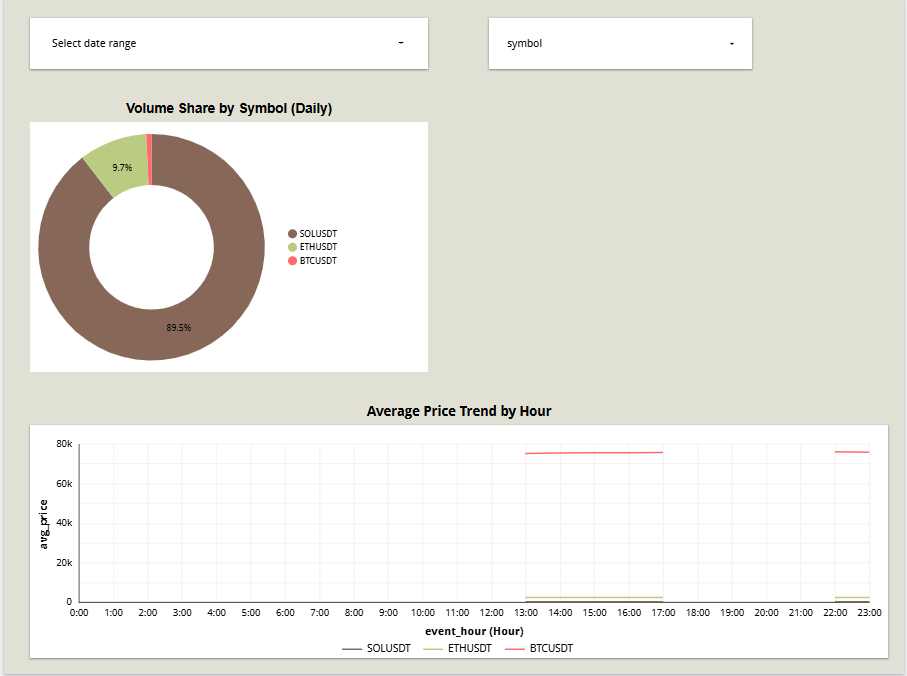
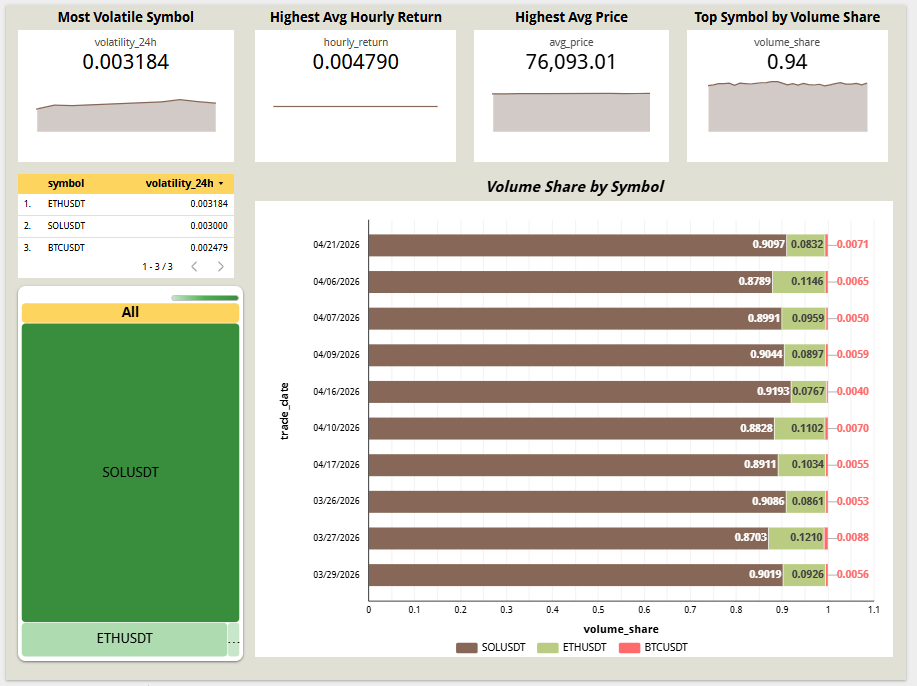
feat: add 30-day kline backfill and refresh dashboard evidence
Enable paginated Binance kline backfills with configurable lookback windows, then align README/dashboard docs and screenshots so reviewers can quickly validate architecture and market insights.

Made-with: Cursor

diff --git a/ingestion/batch/binance_batch_ingest.py b/ingestion/batch/binance_batch_ingest.py
@@ -16,6 +16,22 @@ from ingestion.gcp_credentials import ensure_service_account_file_exists_if_conf
 
 LOGGER = logging.getLogger(__name__)
 BINANCE_KLINES_ENDPOINT = "https://api.binance.com/api/v3/klines"
+KLINE_API_MAX_LIMIT = 1000
+MINUTE_MS = 60 * 1000
+SUPPORTED_INTERVAL_MS = {
+    "1m": 1 * MINUTE_MS,
+    "3m": 3 * MINUTE_MS,
+    "5m": 5 * MINUTE_MS,
+    "15m": 15 * MINUTE_MS,
+    "30m": 30 * MINUTE_MS,
+    "1h": 60 * MINUTE_MS,
+    "2h": 2 * 60 * MINUTE_MS,
+    "4h": 4 * 60 * MINUTE_MS,
+    "6h": 6 * 60 * MINUTE_MS,
+    "8h": 8 * 60 * MINUTE_MS,
+    "12h": 12 * 60 * MINUTE_MS,
+    "1d": 24 * 60 * MINUTE_MS,
+}
 
 
 def normalize_kline(
@@ -50,7 +66,7 @@ def build_kline_params(
     interval: str,
     start_time_ms: int,
     end_time_ms: int,
-    limit: int = 1000,
+    limit: int = KLINE_API_MAX_LIMIT,
 ) -> dict[str, Any]:
     """Build standard Binance klines query parameters."""
     return {
@@ -68,11 +84,12 @@ def fetch_klines(
     start_time_ms: int,
     end_time_ms: int,
     *,
+    limit: int = KLINE_API_MAX_LIMIT,
     timeout_seconds: int = 20,
     max_retries: int = 3,
 ) -> list[list[Any]]:
     """Fetch klines with bounded retries for transient failures."""
-    params = build_kline_params(symbol, interval, start_time_ms, end_time_ms)
+    params = build_kline_params(symbol, interval, start_time_ms, end_time_ms, limit=limit)
 
     for attempt in range(1, max_retries + 1):
         try:
@@ -99,6 +116,57 @@ def fetch_klines(
             time.sleep(backoff_seconds)
 
     return []
+
+
+def interval_to_milliseconds(interval: str) -> int:
+    """Convert Binance interval string to milliseconds."""
+    interval_value = interval.strip().lower()
+    interval_ms = SUPPORTED_INTERVAL_MS.get(interval_value)
+    if interval_ms is None:
+        raise ValueError(f"Unsupported BATCH_INTERVAL '{interval}'.")
+    return interval_ms
+
+
+def fetch_klines_for_time_range(
+    symbol: str,
+    interval: str,
+    start_time_ms: int,
+    end_time_ms: int,
+    *,
+    timeout_seconds: int = 20,
+    max_retries: int = 3,
+) -> list[list[Any]]:
+    """Fetch full kline history for a time window using paginated API calls."""
+    interval_ms = interval_to_milliseconds(interval)
+    chunk_span_ms = interval_ms * KLINE_API_MAX_LIMIT
+    all_klines: list[list[Any]] = []
+    current_start_ms = int(start_time_ms)
+    upper_end_ms = int(end_time_ms)
+
+    while current_start_ms <= upper_end_ms:
+        chunk_end_ms = min(current_start_ms + chunk_span_ms - 1, upper_end_ms)
+        klines = fetch_klines(
+            symbol=symbol,
+            interval=interval,
+            start_time_ms=current_start_ms,
+            end_time_ms=chunk_end_ms,
+            limit=KLINE_API_MAX_LIMIT,
+            timeout_seconds=timeout_seconds,
+            max_retries=max_retries,
+        )
+        if not klines:
+            break
+        all_klines.extend(klines)
+        last_open_time_ms = int(klines[-1][0])
+        next_start_ms = last_open_time_ms + interval_ms
+        if next_start_ms <= current_start_ms:
+            break
+        current_start_ms = next_start_ms
+        if len(klines) < KLINE_API_MAX_LIMIT:
+            # No more data returned in this range.
+            break
+
+    return all_klines
 
 
 def rows_to_records(
@@ -160,7 +228,7 @@ def run_batch_extract_transform(
     max_retries: int = 3,
 ) -> tuple[list[dict[str, Any]], str]:
     """Run fetch -> normalize path and return records plus object name."""
-    klines = fetch_klines(
+    klines = fetch_klines_for_time_range(
         symbol=symbol,
         interval=interval,
         start_time_ms=start_time_ms,
@@ -316,8 +384,13 @@ def main() -> None:
     interval = os.getenv("BATCH_INTERVAL", "1m").strip()
     if not interval:
         raise ValueError("BATCH_INTERVAL must be non-empty when set")
+    lookback_days = float(os.getenv("BATCH_LOOKBACK_DAYS", "0").strip() or "0")
+    lookback_hours = float(os.getenv("BATCH_LOOKBACK_HOURS", "1").strip() or "1")
+    if lookback_days <= 0 and lookback_hours <= 0:
+        raise ValueError("Set BATCH_LOOKBACK_DAYS or BATCH_LOOKBACK_HOURS to a value > 0")
+    lookback_ms = int((lookback_days * 24 + lookback_hours) * 60 * 60 * 1000)
     end_ms = int(time.time() * 1000)
-    start_ms = end_ms - (60 * 60 * 1000)
+    start_ms = end_ms - lookback_ms
     bucket_name = os.getenv("GCS_BUCKET")
     project_id = os.getenv("GCP_PROJECT_ID")
     table_id = os.getenv("BQ_RAW_TABLE")
@@ -341,6 +414,11 @@ def main() -> None:
         return
 
     LOGGER.info("Dry run only. Set RUN_BATCH_PIPELINE=1 + cloud env vars to execute writes.")
+    LOGGER.info(
+        "Using lookback window: %.2f days (%.2f hours)",
+        lookback_days if lookback_days > 0 else lookback_hours / 24,
+        lookback_hours if lookback_days <= 0 else lookback_days * 24 + lookback_hours,
+    )
     for symbol in symbols:
         records, object_name = run_batch_extract_transform(
             symbol=symbol,

diff --git a/tests/ingestion/test_batch_ingest.py b/tests/ingestion/test_batch_ingest.py
@@ -9,6 +9,8 @@ from ingestion.batch.binance_batch_ingest import (
     build_gcs_object_name,
     build_kline_params,
     fetch_klines,
+    fetch_klines_for_time_range,
+    interval_to_milliseconds,
     load_to_bigquery_raw_table,
     normalize_kline,
     run_batch_pipeline,
@@ -118,6 +120,44 @@ def test_fetch_klines_retries_then_succeeds(monkeypatch: pytest.MonkeyPatch) -> 
 
     assert result == expected_payload
     assert calls["count"] == 3
+
+
+def test_interval_to_milliseconds_returns_expected_values() -> None:
+    assert interval_to_milliseconds("1m") == 60_000
+    assert interval_to_milliseconds("1h") == 3_600_000
+
+
+def test_interval_to_milliseconds_raises_for_unsupported_interval() -> None:
+    with pytest.raises(ValueError, match="Unsupported BATCH_INTERVAL"):
+        interval_to_milliseconds("13m")
+
+
+def test_fetch_klines_for_time_range_paginates_windows(
+    monkeypatch: pytest.MonkeyPatch,
+) -> None:
+    calls: list[tuple[int, int]] = []
+    first_page = [[index * 60_000, "1", "2", "0.5", "1.5", "100", (index * 60_000) + 59_999] for index in range(1000)]
+    second_page = [[60_000_000, "1.1", "2.2", "0.6", "1.6", "110", 60_059_999]]
+
+    def fake_fetch_klines(**kwargs):  # type: ignore[no-untyped-def]
+        calls.append((kwargs["start_time_ms"], kwargs["end_time_ms"]))
+        if kwargs["start_time_ms"] == 0:
+            return first_page
+        if kwargs["start_time_ms"] == 60_000_000:
+            return second_page
+        return []
+
+    monkeypatch.setattr("ingestion.batch.binance_batch_ingest.fetch_klines", fake_fetch_klines)
+
+    result = fetch_klines_for_time_range(
+        symbol="BTCUSDT",
+        interval="1m",
+        start_time_ms=0,
+        end_time_ms=60_059_999,
+    )
+
+    assert result == first_page + second_page
+    assert calls == [(0, 59_999_999), (60_000_000, 60_059_999)]
 
 
 def test_load_to_bigquery_raw_table_retries_then_succeeds(

diff --git a/dashboard/README.md b/dashboard/README.md
@@ -2,12 +2,13 @@
 
 This folder tracks the dashboard deliverable for crypto market reliability and volatility.
 
-## Required tiles
+## Required Tiles
 
-- **Categorical distribution:** volume share by symbol for trailing `24h` and `7d`.
-- **Temporal trend:** volatility over time by symbol.
+- **KPI scorecards:** peak volatility, peak hourly return, top average price, and top volume share.
+- **Categorical comparison:** volume share by symbol (daily).
+- **Temporal trends:** volatility and average price by hour with symbol breakdown.
 
-## Data sources (dbt marts)
+## Data Sources (dbt Marts)
 
 - **`mart_volume_distribution_daily`**
   - Fields: `trade_date`, `symbol`, `total_volume`, `market_total_volume`, `volume_share`
@@ -23,22 +24,89 @@ This folder tracks the dashboard deliverable for crypto market reliability and v
     - Series/breakdown: `symbol`
     - Metric: `volatility_24h`
 
-## Submission evidence (screenshots)
+## Exact Looker Studio Configuration (5 Blocks)
+
+Use a single page with these defaults:
+- **Default date range:** last 30 days
+- **Filters:** date range control + symbol filter control (multi-select, default all)
+- **Timezone:** UTC
+
+1) **KPI Scorecards (4 Cards)**
+- **Data source:** `mart_price_volatility_hourly` for cards A-C, `mart_volume_distribution_daily` for card D
+- **Card A (Most Volatile Symbol):**
+  - Chart: Scorecard
+  - Metric: `volatility_24h` (Aggregation: `MAX`)
+  - Optional secondary metric: `symbol` via calculated field `symbol_of_max_volatility` using `CASE` in blended table
+  - Sort: `volatility_24h DESC`
+- **Card B (Highest Avg Hourly Return):**
+  - Metric: `hourly_return` (Aggregation: `MAX`)
+  - Sort: `hourly_return DESC`
+- **Card C (Highest Avg Price):**
+  - Metric: `avg_price` (Aggregation: `MAX`)
+  - Sort: `avg_price DESC`
+- **Card D (Top Symbol by Volume Share):**
+  - Metric: `volume_share` (Aggregation: `MAX`)
+  - Sort: `volume_share DESC`
+
+2) **Volume Share by Symbol (Comparison)**
+- **Data source:** `mart_volume_distribution_daily`
+- **Chart:** Bar chart (horizontal, sorted)
+- **Dimension:** `symbol`
+- **Metric:** `volume_share`
+- **Aggregation:** `AVG(volume_share)`
+- **Sort:** `AVG(volume_share) DESC`
+- **Date dimension:** `trade_date`
+- **Style:** show percent axis and data labels
+
+3) **Average Price Trend by Hour (Comparison)**
+- **Data source:** `mart_price_volatility_hourly`
+- **Chart:** Time series (multi-line)
+- **Dimension:** `event_hour`
+- **Breakdown dimension:** `symbol`
+- **Metric:** `avg_price`
+- **Aggregation:** `AVG(avg_price)`
+- **Sort:** `event_hour ASC`
+- **Date dimension:** `event_hour`
+
+4) **Volatility Trend by Hour (Comparison)**
+- **Data source:** `mart_price_volatility_hourly`
+- **Chart:** Time series (multi-line)
+- **Dimension:** `event_hour`
+- **Breakdown dimension:** `symbol`
+- **Metric:** `volatility_24h`
+- **Aggregation:** `AVG(volatility_24h)`
+- **Sort:** `event_hour ASC`
+- **Date dimension:** `event_hour`
+
+5) **Symbol Comparison Table (Compact Decision Table)**
+- **Data source:** `mart_price_volatility_hourly` (primary) + `mart_volume_distribution_daily` (optional blend for volume share)
+- **Chart:** Table
+- **Dimension:** `symbol`
+- **Metrics (recommended):**
+  - `AVG(avg_price)`
+  - `AVG(hourly_return)`
+  - `AVG(volatility_24h)`
+  - `AVG(volume_share)` (from blend or second table using `mart_volume_distribution_daily`)
+- **Sort:** `AVG(volatility_24h) DESC`, then `AVG(hourly_return) DESC`
+- **Style:** enable heatmap/conditional formatting on volatility and return columns
+
+## Submission Evidence (Screenshots)
 
 Saved under `dashboard/screenshots/` for peer review and the rubric.
 
-| File | Tile / purpose |
+| File | Tile / Purpose |
 |------|----------------|
-| `tile-dashboard-volume-share-and-price-trend.png` | **Full dashboard:** Volume Share by Symbol (Daily) + Average Price Trend by Hour (categorical + temporal in one capture). |
-| `tile-average-price-trend-by-hour.png` | **Temporal (detail):** Average price by hour only. |
+| `binance-architecture-pipeline.png` | **Architecture visual:** detailed platform view (sources, ingestion, bronze/silver/gold, serving, and control plane). |
+| `tile-dashboard-volume-share-and-price-trend.png` | **Full dashboard (latest):** KPI scorecards + symbol ranking table + symbol filter + daily volume share comparison chart. |
+| `tile-average-price-trend-by-hour.png` | **Trend panel (latest):** Date/symbol controls + volatility trend by hour + average price trend by hour + daily volume share chart. |
 
-## Finalization checklist
+## Finalization Checklist
 
 - [x] Confirm Looker Studio dashboard URL is final and accessible to reviewers.
 - [x] Add dashboard URL to this file under a `Dashboard URL` section.
 - [x] Export and save screenshots for required tiles into `dashboard/screenshots/`.
 - [x] Name screenshots clearly (see table above).
-- [ ] Verify screenshot paths render on GitHub before submission.
+- [x] Verify screenshot paths render on GitHub before submission.
 
 ## Dashboard URL
 

diff --git a/README.md b/README.md
@@ -71,6 +71,12 @@ flowchart LR
 
 Implementation paths for each component are listed in the repository structure below.
 
+## Architecture (Detailed Visual)
+
+The Mermaid architecture above is the canonical text diagram. This detailed visual is included for quick reviewer orientation.
+
+![Detailed architecture overview](dashboard/screenshots/binance-architecture-pipeline.png)
+
 ## Repository Structure
 
 ### Folder Descriptions
@@ -201,6 +207,26 @@ erDiagram
     STG_RAW_STREAM_TRADES ||--o{ MART_PRICE_VOLATILITY_HOURLY : aggregates_to
 ```
 
+## Dashboard Quick View
+
+### Full Dashboard Snapshot
+
+![Dashboard full snapshot](dashboard/screenshots/tile-dashboard-volume-share-and-price-trend.png)
+
+Crypto market insights from this view:
+- SOLUSDT dominates volume share over the selected window, indicating concentration in traded activity.
+- ETHUSDT contributes a meaningful secondary share, while BTCUSDT volume share is comparatively small in this sampled period.
+- KPI cards surface practical monitoring signals quickly: peak volatility, peak hourly return, top price level, and top volume share.
+
+### Trend-Focused Snapshot
+
+![Dashboard trend snapshot](dashboard/screenshots/tile-average-price-trend-by-hour.png)
+
+Crypto market insights from this view:
+- Volatility varies by symbol across hours, which helps spot riskier intervals for intraday execution.
+- Average price trajectories diverge across symbols, showing different momentum profiles in the same window.
+- Date and symbol controls support focused comparison (single-symbol drilldown or full-market relative behavior).
+
 ## Evaluation Rubric Mapping
 
 - **Problem description**
@@ -273,6 +299,7 @@ cd de-end-to-end-proj
    - Manual checkpoint (credentials required): valid GCP auth and project-level permissions.
 2. **Run batch ingestion**
    - Back in repo root: `make run-batch`
+   - Optional broader history: set `BATCH_LOOKBACK_DAYS` (for example `7` or `30`) in `.env` before running.
    - Confirm batch outputs land in configured lake/warehouse targets.
 3. **Run stream pipeline in separate terminals**
    - Terminal A: `make run-stream-producer`
@@ -285,7 +312,7 @@ cd de-end-to-end-proj
 5. **Open dashboard artifacts**
    - Dashboard guide: `dashboard/README.md`
    - Evidence folder: `dashboard/screenshots/`
-   - Manual checkpoint (review artifact): add shareable dashboard URL + screenshots.
+   - Manual checkpoint (review artifact): validate KPI scorecards, symbol comparison visuals, and trend charts for the selected date window.
 
 ## Command Reference
 
@@ -293,6 +320,7 @@ cd de-end-to-end-proj
 - Lint: `make lint`
 - Tests: `make test`
 - Batch ingest: `make run-batch`
+  - Optional env window controls: `BATCH_LOOKBACK_DAYS` and `BATCH_LOOKBACK_HOURS`
 - Stream producer: `make run-stream-producer`
 - Stream consumer: `make run-stream-consumer`
 - dbt run: `make dbt-run`
@@ -316,7 +344,7 @@ GitHub Actions workflow: `.github/workflows/ci.yml`
 - Dashboard evidence folder: `dashboard/screenshots/`
 - Manual/blocked for reviewer package:
   - Looker Studio: [dashboard link](#links) (also in `dashboard/README.md`).
-  - Final dashboard screenshots in `dashboard/screenshots/`.
+  - Final dashboard screenshots in `dashboard/screenshots/` (KPI cards, symbol comparison panel, and trend panels).
   - Credentialed BigQuery-backed `dbt deps`/`dbt test` run proof (requires GCP secrets/credentials).
 
 ## Supporting Docs
